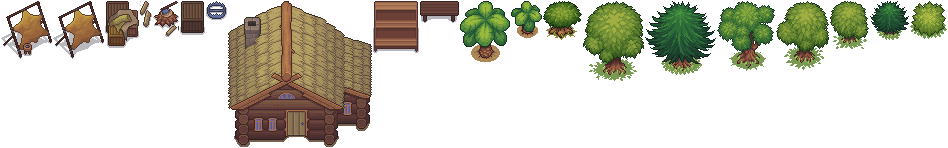
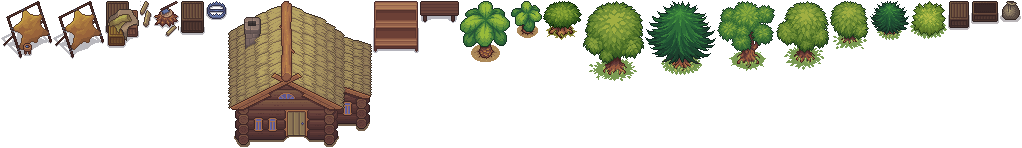
Give Rex a shopfront, and fix a cull that measured screen against world
Rex stood alone on bare ground the way Maya did before the stalls. He now
has a counter with freight on it, a shelf, crates and a sack, from pieces
already in the fixtures atlas plus three from the fishing village pack. The
stall system is generalised: each entry names which trader it belongs to,
resolved at draw time because MAYA_TX and REX_TX are declared far below it
and reading them at module scope throws on the temporal dead zone.

Two things I got wrong and caught by measuring rather than looking:

The fishing village's props are mostly barrels and crates spilling blue
fish, right for a fishing village and wrong for a dust-bowl trading post. I
picked "the two pieces with no fish in them" by eye and shipped a sack pile
with two fish plainly sticking out of it. The tool now picks by counting the
share of opaque pixels that are saturated blue and taking only rects that
score zero -- which also showed the barrel I liked was 6.9% blue from its
steel bands, not fish.

And the cull in drawMarketStalls and drawTrapper compared a world-pixel
offset against canvas.width, which is screen pixels. At ZOOM 3.25 that made
it over three times too generous: a frame centred on Maya was drawing Rex's
whole shopfront twelve tiles away. Invisible on screen since the canvas
clips, but it wasted draw calls and it made my own test report nine pieces
where three were in view. Now divided by ZOOM, and the test agrees.

Related, and now in ART-PIPELINE.md: a test that positions the camera by
[…]

diff --git a/index.html b/index.html
@@ -10120,6 +10120,7 @@ const CAMP_FRONT = [
 const STALL_GOODS = {
   dry:   ['wool', 'egg', 'milk'],                    // the fixed dairy stall
   tools: ['rope', 'plank', 'cloth'],                 // the fixed sundries shelf
+  trade: ['ironBar', 'copperBar', 'leatherStrip'],   // Rex's freight counter
 };
 // Offsets from Maya, not absolute tiles: MAYA_TX is declared several hundred
 // lines below this, so reading it here throws on the temporal dead zone — and
@@ -10127,10 +10128,24 @@ const STALL_GOODS = {
 // takes every const after it down with it. The same trap the trapper's
 // coordinates hit. Resolved at draw time instead.
 //   [piece, dx, dy, which goods, how many]
+// Both traders stood alone on bare ground. Each entry is
+//   [who, piece, dx, dy, goods|null, how many]
+// with dx/dy in tiles from that trader. `who` is resolved at draw time, not
+// here: MAYA_TX and REX_TX are declared several hundred lines below this and
+// reading them at module scope throws on the temporal dead zone, taking every
+// later const with it.
 const STALLS = [
-  ['table', -3,  0, 'season', 3],
-  ['table',  3,  0, 'dry',    3],
-  ['shelf',  0, -3, 'tools',  3],
+  ['maya', 'table', -3,  0, 'season', 3],
+  ['maya', 'table',  3,  0, 'dry',    3],
+  ['maya', 'shelf',  0, -3, 'tools',  3],
+  // Rex trades contracts and freight, so his post is a counter and stock
+  // rather than produce on display.
+  ['rex',  'table',      -3,  0, 'trade', 3],
+  ['rex',  'shelf',       2, -2, null,    0],
+  ['rex',  'crate_tall', -1, -2, null,    0],
+  ['rex',  'crate_wide',  0, -2, null,    0],
+  ['rex',  'sack',        3,  1, null,    0],
+  ['rex',  'crate_tall', -4,  1, null,    0],
 ];
 
 // Crops the season pays a bonus on. Filtered to type 'crop': priceBonus also
@@ -10203,13 +10218,21 @@ function drawOverhangProps(cx, cy) {
 
 function drawMarketStalls(cx, cy) {
   if (!_fixArt.ok) return;
-  for (const [piece, dx, dy, which, n] of STALLS) {
-    const tx = MAYA_TX + dx, ty = MAYA_TY + dy;
+  for (const [who, piece, dx, dy, which, n] of STALLS) {
+    const ax = who === 'rex' ? REX_TX : MAYA_TX;
+    const ay = who === 'rex' ? REX_TY : MAYA_TY;
+    const tx = ax + dx, ty = ay + dy;
     const sx = tx * T + T / 2 - cx, sy = ty * T + T / 2 - cy;
-    if (sx < -T*4 || sx > canvas.width + T*4 || sy < -T*4 || sy > canvas.height + T*4) continue;
+    // World pixels, so the bound is the canvas in WORLD units — width/ZOOM.
+    // Comparing a world offset against canvas.width is the easy mistake here
+    // and it silently makes the cull ZOOM times too generous: at 3.25 this
+    // drew Rex's whole shopfront while the camera was on Maya.
+    const vw = canvas.width / ZOOM, vh = canvas.height / ZOOM;
+    if (sx < -T*4 || sx > vw + T*4 || sy < -T*4 || sy > vh + T*4) continue;
     if (!exploredWorld[ty * MAP_W + tx]) continue;
     if (!drawFixture(piece, sx, sy)) continue;
 
+    if (!which) continue;                       // furniture with nothing on it
     const goods = which === 'season' ? _seasonGoods() : STALL_GOODS[which];
     if (!goods || typeof DHIcons === 'undefined') continue;
     // Goods sit on the surface: one row on a table, stacked on the shelf's
@@ -10229,7 +10252,9 @@ function drawTrapper(cx, cy) {
   const sx = TRAPPER_X - cx, sy = TRAPPER_Y - cy;
   // Generous upward margin: the lodge's roof reaches four and a half tiles
   // above his feet, so it is still visible when he himself is off the top.
-  if (sx < -T*5 || sx > canvas.width + T*5 || sy < -T*8 || sy > canvas.height + T*3) return;
+  // Bounds are in world pixels, so the canvas has to be divided by ZOOM.
+  const _vw = canvas.width / ZOOM, _vh = canvas.height / ZOOM;
+  if (sx < -T*5 || sx > _vw + T*5 || sy < -T*8 || sy > _vh + T*3) return;
   if (!exploredWorld[TRAPPER_TY * MAP_W + TRAPPER_TX]) return;
   const bob = Math.sin(Date.now() * 0.0016) * 1.4;
 

diff --git a/tools/build_fixtures.py b/tools/build_fixtures.py
@@ -1,7 +1,7 @@
 #!/usr/bin/env python3
 """Cut the world's fixed decorations out of two packs into one atlas.
 
-Run:  ./tools/build_fixtures.py <hunters-lodge> <armor-and-weapons> <desert-tileset> <farm-with-animals>
+Run:  ./tools/build_fixtures.py <hunters-lodge> <armor-and-weapons> <desert-tileset> <farm-with-animals> <fishing-village>
 
 Emits assets/fixtures/fixtures.png + fixtures.json — one small atlas of named
 pieces, each at its native size, blitted at fixed offsets by the draw code.
@@ -110,15 +110,30 @@ PIECES4 = {
     "tree_shrub":   ("Objects_outside.png", 245, 116, 37, 38),
 }
 
+# ── Trade goods (2D Pixel Fishing Village) ──────────────────────────────
+# Almost everything in that pack's exterior sheet is barrels and crates
+# spilling blue fish, which is right for a fishing village and wrong for a
+# dust-bowl trading post. These are the pieces with none.
+#
+# Picked by measuring, not by eye: count the share of opaque pixels that are
+# saturated blue or cyan and take only the rects that score zero. My first
+# pass chose a sack pile "with no fish in it" that scored 2.6% and had two
+# fish plainly sticking out of it once it was on screen at game scale.
+PIECES5 = {
+    "crate_tall": ("Exterior_objetcs.png", 134, 322, 22, 29),
+    "crate_wide": ("Exterior_objetcs.png", 195, 324, 28, 23),
+    "sack":       ("Exterior_objetcs.png",  68, 551, 21, 21),
+}
+
 PAD = 1   # a transparent gutter, so no piece bleeds into its neighbour
 
 
 def main():
-    if len(sys.argv) != 5:
+    if len(sys.argv) != 6:
         raise SystemExit(__doc__)
     # Each pack keeps its art somewhere slightly different. PNG/ for most; the
     # farm pack's outdoor objects are only in Tiled_files/.
-    SUBDIRS = ["PNG", "PNG", "PNG", "Tiled_files"]
+    SUBDIRS = ["PNG", "PNG", "PNG", "Tiled_files", "PNG"]
     srcs = []
     for a, sub in zip(sys.argv[1:], SUBDIRS):
         d = Path(a) / sub
@@ -127,13 +142,13 @@ def main():
         srcs.append(d)
 
     cut = {}
-    ALL = list(PIECES.items()) + list(PIECES2.items()) + \
-          list(PIECES3.items()) + list(PIECES4.items())
+    ALL = list(PIECES.items()) + list(PIECES2.items()) + list(PIECES3.items()) + \
+          list(PIECES4.items()) + list(PIECES5.items())
     for name, (fn, x, y, w, h) in ALL:
         src = (srcs[0] if name in PIECES else
                srcs[1] if name in PIECES2 else
                srcs[2] / "Objects_separately" if name in PIECES3 else
-               srcs[3])
+               srcs[3] if name in PIECES4 else srcs[4])
         sheet = Image.open(src / fn).convert("RGBA")
         im = sheet.crop((x, y, x + w, y + h))
         bb = im.getbbox()

diff --git a/docs/ART-PIPELINE.md b/docs/ART-PIPELINE.md
@@ -300,6 +300,19 @@ poll backs all of them up, because a game that renders into a stale buffer
 shows a black screen with no way to recover. `resize()` returns immediately
 when nothing changed, so the poll costs two property reads.
 
+## Cull bounds are in world pixels
+
+`sx = tx*T + T/2 - cx` is a **world**-pixel offset. Comparing it against
+`canvas.width`, which is **screen** pixels, makes the cull ZOOM times too
+generous — at 3.25 the market stalls drew Rex's entire shopfront while the
+camera was on Maya. Divide: `canvas.width / ZOOM`.
+
+It is invisible on screen, because the canvas clips anyway; it only shows up
+as wasted draw calls, and as tests that quietly measure the wrong thing. A
+test that positions the camera by setting `player.x/y` measures nothing
+either — the camera *eases* toward the player over about half a second, so
+set `gameState.camera` directly when you mean to test a specific view.
+
 ## Terrain that clumps: cut a smooth field at quantiles
 
 The wilderness and the barn zone picked a ground type per tile straight from
